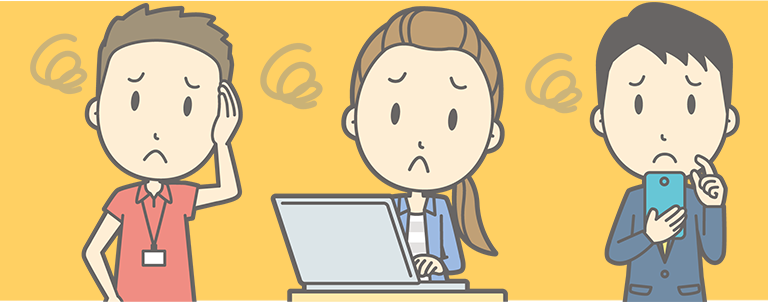
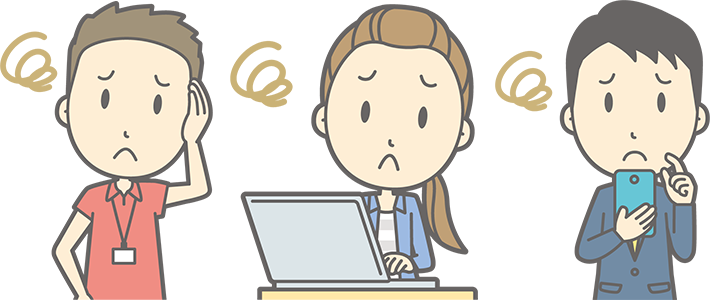
画像とCSS

diff --git a/themes/weluka-theme-00-child/css/sub-free.css b/themes/weluka-theme-00-child/css/sub-free.css
@@ -6,6 +6,10 @@
 	color: red;
 }
 
+.lr-main--bg04{
+	background: #ffd063;
+}
+
 /* 768px以上 */
 @media (min-width: 768px) {
 
